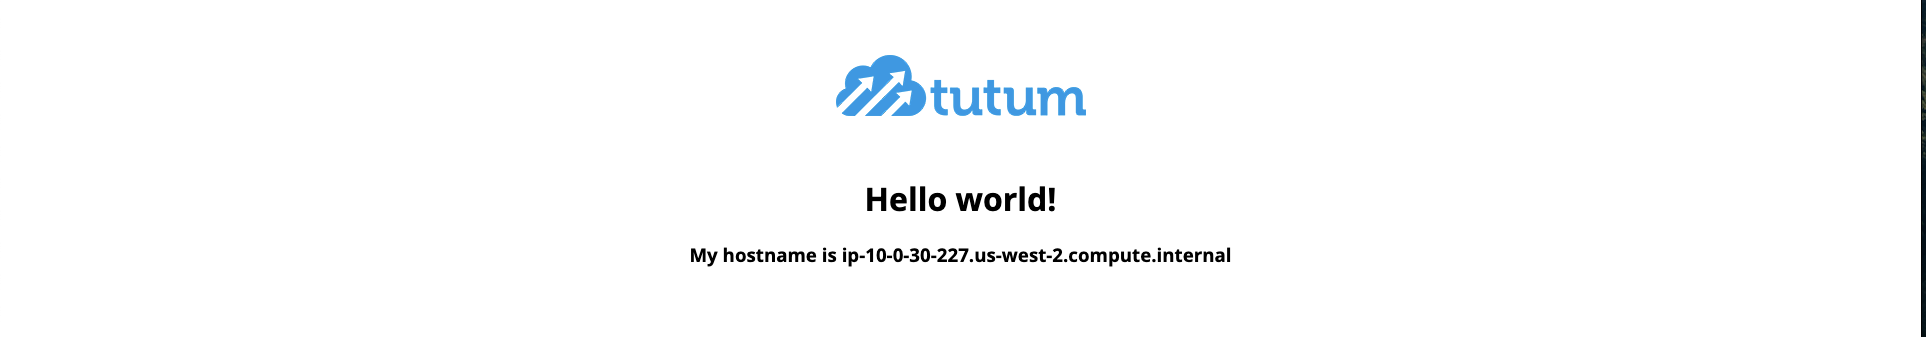
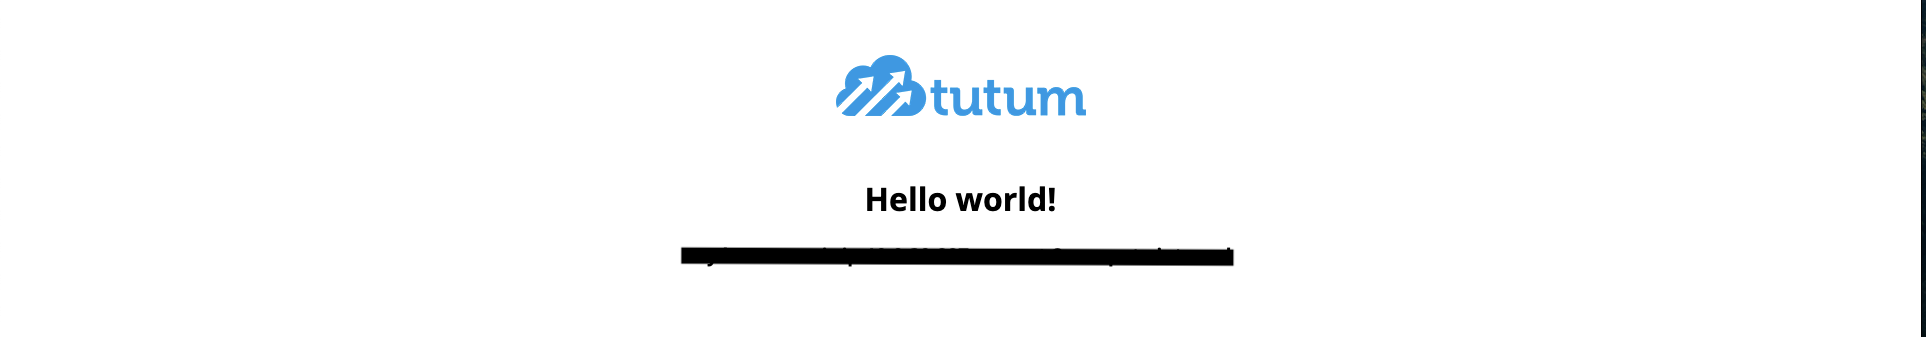
fixed readme typos + hid IPs

Changed region(s): [[0.3427, 0.7122, 0.6542, 0.8012]]

diff --git a/walkthroughs/cdk-examples/app-mesh-hands-on/README.md b/walkthroughs/cdk-examples/app-mesh-hands-on/README.md
@@ -57,7 +57,7 @@ After the deployment is complete, navigate to _Elastic Container Service_ (ECS) 
 ### To view any application
 
 - Click on the Service name (e.g. `backend-1`)
-- Navigate to `Configuration and tasks` tab and click on the Task hyperlink.
+- Navigate to the `Configuration and tasks` tab and click on the Task hyperlink.
 - Navigate to the `Networking` tab and copy the `Public IP` or click on `open address`.
 
 <p align="center">
@@ -86,9 +86,9 @@ In your terminal, run
 Adding `meshify=true` in the context will update the `test` cluster by deleting the previous services and creating 3 new services.
 
 1. `meshified-backend` - Along with the `app` container from `backend`, we add an `envoy` sidecar container which also acts as a proxy and an `xray` container for request tracing. Morover `meshified-backend` is now exposed as an App Mesh **virtual node** called `backend-vn`.
-2. `meshified-backend-1` - Along with the `app` container from `backend-1`, we add an `envoy` sidecar container which also acts as a proxy and an `xray` container for request tracing. Morover `meshified-backend-1` is now exposed as an App Mesh **virtual node** called `backend-1-vn`..
+2. `meshified-backend-1` - Along with the `app` container from `backend-1`, we add an `envoy` sidecar container which also acts as a proxy and an `xray` container for request tracing. Morover `meshified-backend-1` is now exposed as an App Mesh **virtual node** called `backend-1-vn`.
 3. `meshified-frontend` - Along with the `app` container from `frontend`, we add an `envoy` sidecar container which also acts as a proxy and an `xray` container for request tracing.
-   Morover `meshified-frontend` is now exposed as an App Mesh **virtual node** called `frontend-vn` that routes traffic to the `backend.local` **virtual service** called. This virtual service is provided by a **virtual router** that has weighted routes to propagate traffic to the
+   Morover `meshified-frontend` is now exposed as an App Mesh **virtual node** called `frontend-vn` that routes traffic to the `backend.local` , which now acts as a **virtual service**. This virtual service is provided by a **virtual router** that has weighted routes to propagate traffic to the virtual nodes `backend-vn` and `backend-1-vn`.
 
 <p align="center">
   <img src="assets/meshified.png">
@@ -183,7 +183,7 @@ Three more constructs - `EnvoySidecar`, `XrayContainer` and `ApplicationContaine
   <img width="600" height="350" src="assets/stacks.png">
 </p>
 
-The order mentioned above also represents the dependency these Stacks have on eachother. In this case, since we are deploying the `EnvoySidecar` containers along with our application code, it is necessary for the mesh components to be provisioned before the services are running, so the Envoy proxy can locate them using the `APPMESH_RESOURCE_ARN` environment variable.
+The order mentioned above also represents the dependency these Stacks have on eachother. For the purposes of this example, the mesh components provisioned by the `MeshStack` are deployed regardless of the value of the context `meshify`. When the 'meshified' services are deployed, the Envoy sidecar identifies App Mesh resources via the `APPMESH_RESOURCE_ARN` environment variable.
 
 These dependencies are propagated by passing the Stack objects in the `constructor` of their referencing Stack.
 
@@ -221,7 +221,7 @@ export interface AppMeshFargateServiceProps {
 
 ```
 
-Note that the `proxyConfiguration` prop is separate because the Envoy sidecar container can exist own its own without acting as a proxy, but for it to act as a proxy there must be a running container with the name mentioned in the proxy configuration.
+Note that the `proxyConfiguration` prop in `EnvoyConfiguration` is separate because the Envoy sidecar container can exist own its own without acting as a proxy, but for it to act as a proxy there must be a running container with the name mentioned in the proxy configuration.
 
 We can then instantiate an `AppMeshFargateService` construct using `AppMeshFargateServiceProps`. Since the `envoyConfiguration` and `xrayContainer` are optional, they are only provisioned when we pass `--context meshify=true` in the `cdk deploy` command.
 
@@ -312,8 +312,17 @@ The CloudFormation templates generated by the `cdk synth` command are present in
 cdk synth BaseStack/ServiceDiscoveryStack > templates/service-discovery-stack.yaml
 ```
 
+Any global configuration can be added in the `cdk.json` under the `context` key. This is equivalent to passing `--context key=value` during runtime. In this case, properties like the container images and ports are added for ease of reference and updates.
+
 ```c
+// envoy-sidecar.ts
 image: ecs.ContainerImage.fromRegistry(this.node.tryGetContext("IMAGE_ENVOY"))
+```
+
+```c
+// base.ts
+this.PROJECT_NAME = this.node.tryGetContext("PROJECT_NAME");
+this.PORT = parseInt(this.node.tryGetContext("CONTAINER_PORT"), 10);
 ```
 
 </details>
